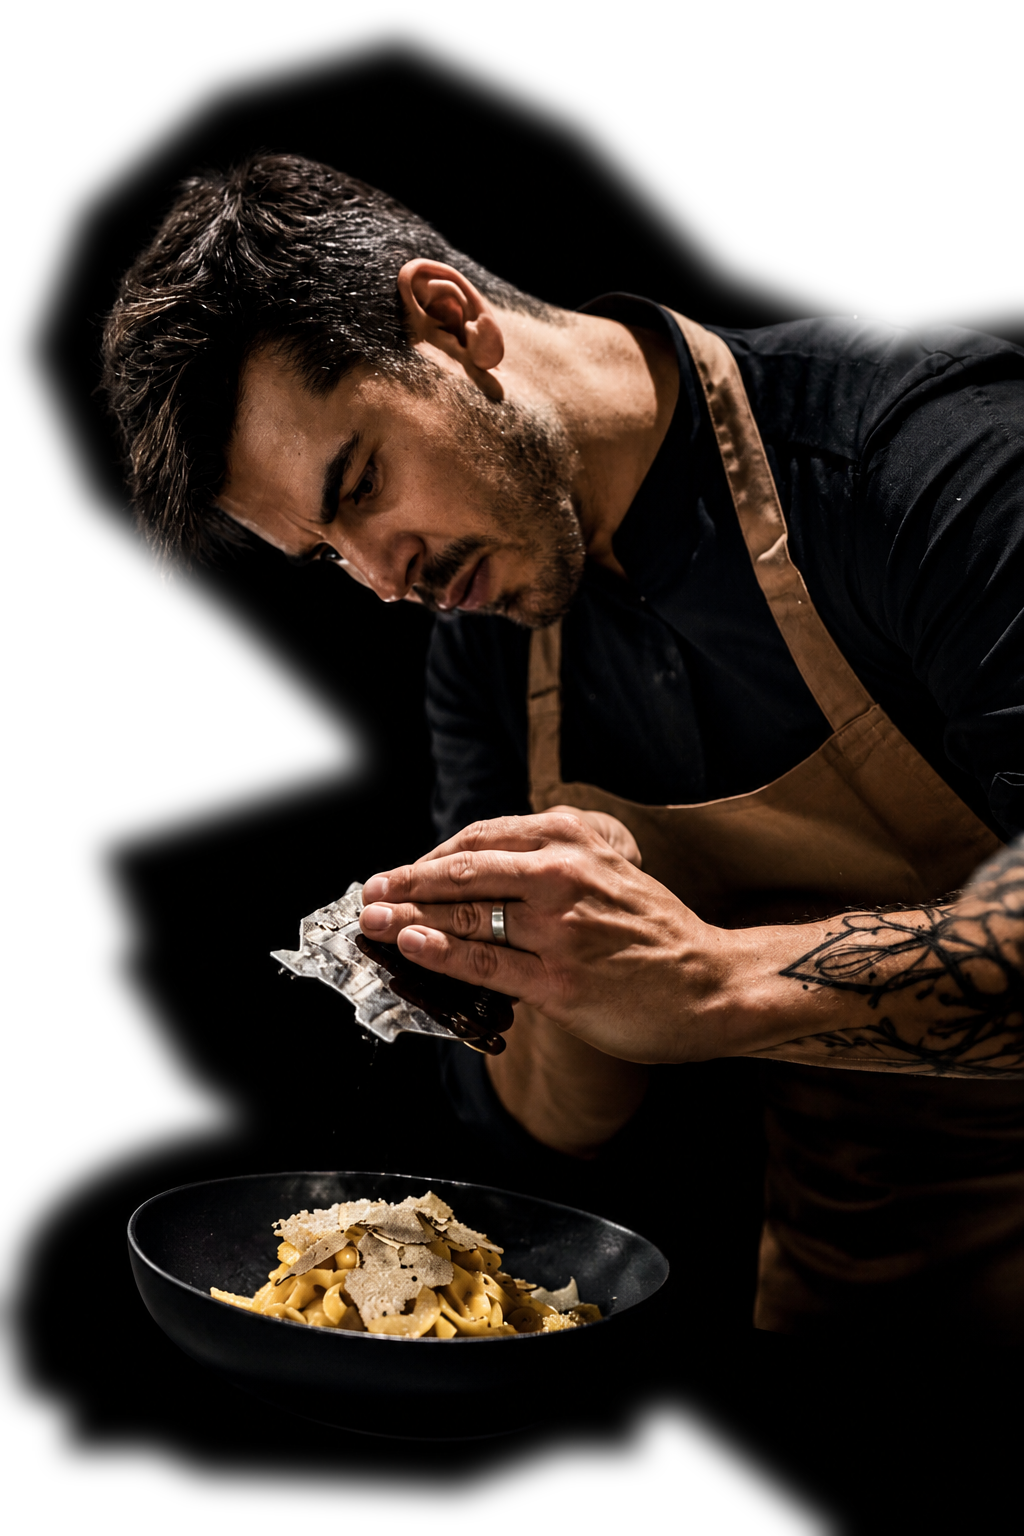
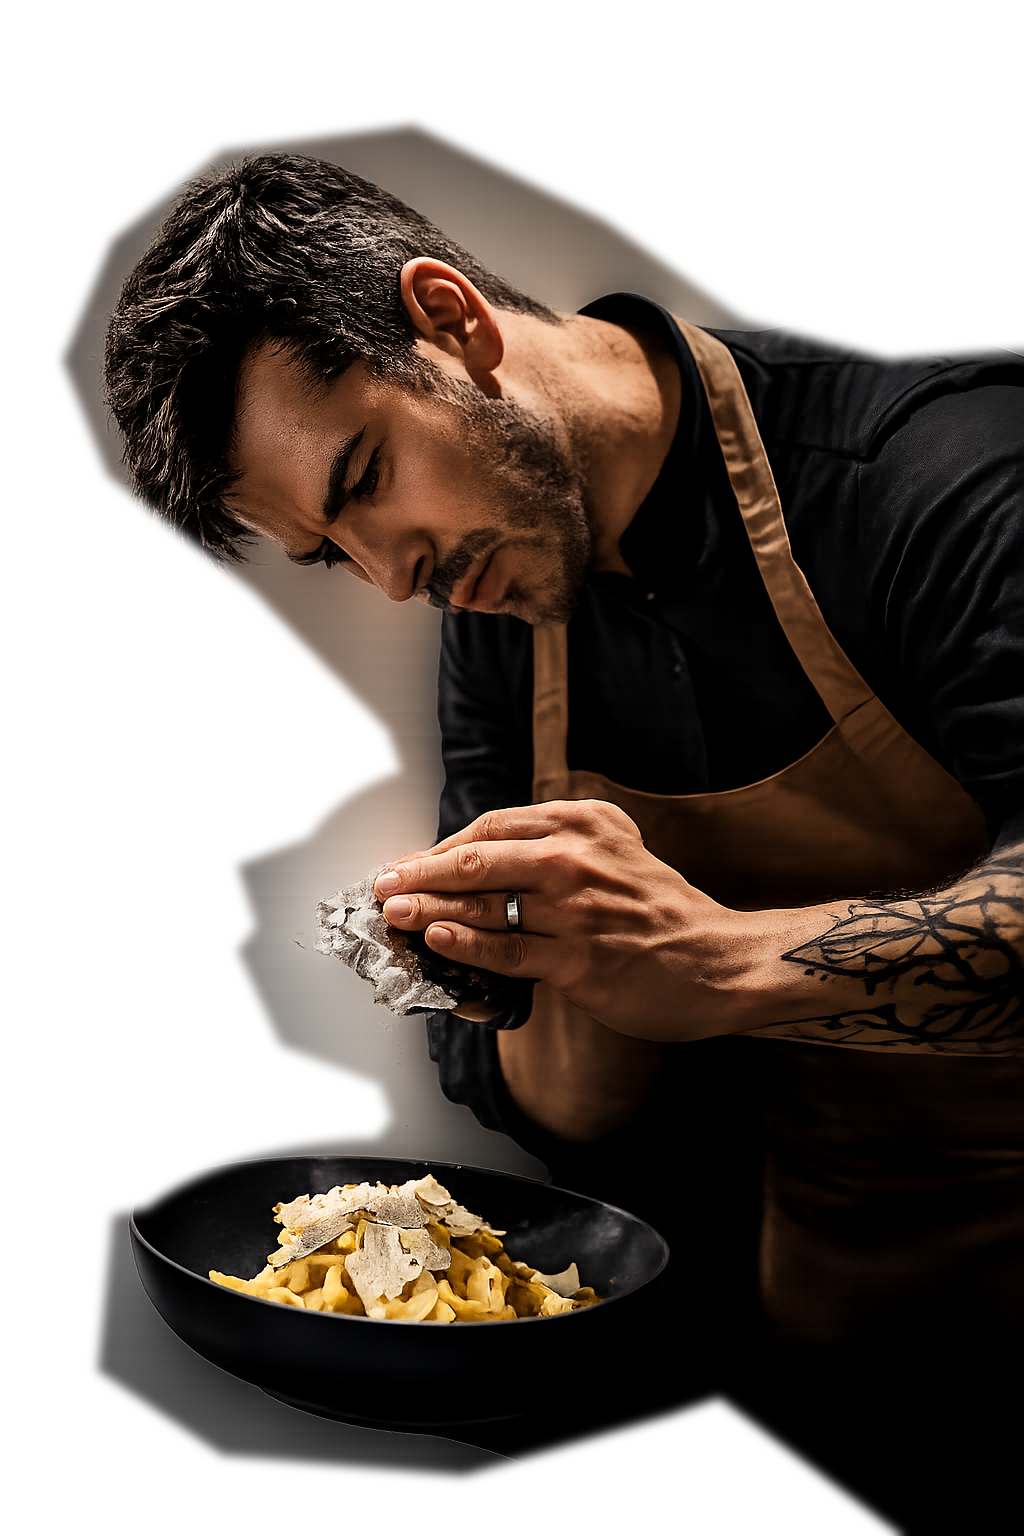
Refine mobile hero chef composition

diff --git a/frontend/src/index.css b/frontend/src/index.css
@@ -1544,7 +1544,8 @@ html[data-theme="light"] .zone-preview-card :where(.text-white, [class*="text-wh
 
   .site-hero > .relative {
     min-height: calc(100svh - 108px);
-    padding-top: 2.25rem;
+    align-items: flex-start;
+    padding-top: 1rem;
     padding-bottom: 2.75rem;
   }
 
@@ -1574,11 +1575,11 @@ html[data-theme="light"] .zone-preview-card :where(.text-white, [class*="text-wh
   }
 
   .site-hero .hero-chef-overlay {
-    right: -18vw;
+    right: -24vw;
     left: auto;
-    width: 76vw;
-    height: 52svh;
-    opacity: 0.72;
+    width: 92vw;
+    height: 58svh;
+    opacity: 0.82;
   }
 
   .site-hero .mt-8 {
@@ -1586,7 +1587,13 @@ html[data-theme="light"] .zone-preview-card :where(.text-white, [class*="text-wh
   }
 
   .site-hero .mt-12 {
-    margin-top: 1.75rem;
+    margin-top: 1.35rem;
+    grid-template-columns: repeat(2, minmax(0, 1fr));
+    max-width: 18rem;
+  }
+
+  .site-hero .hero-days-stat {
+    display: none;
   }
 
   .site-hero .mt-10 {

diff --git a/frontend/src/components/home/HeroSection.jsx b/frontend/src/components/home/HeroSection.jsx
@@ -50,7 +50,7 @@ export default function HeroSection({ t, onOpenReservation, onOpenMenu, language
           </div>
 
           <div className="mt-12 grid max-w-xl grid-cols-3 gap-3 text-center sm:gap-4">
-            <div className="luxury-panel rounded-2xl p-4">
+            <div className="hero-days-stat luxury-panel rounded-2xl p-4">
               <div className="text-2xl font-semibold text-[#fff4df]">4,8</div>
               <div className="mt-1 text-[0.68rem] font-semibold tracking-[0.18em] text-[#f2c76f]" aria-label="5 stars">
                 ★★★★★
